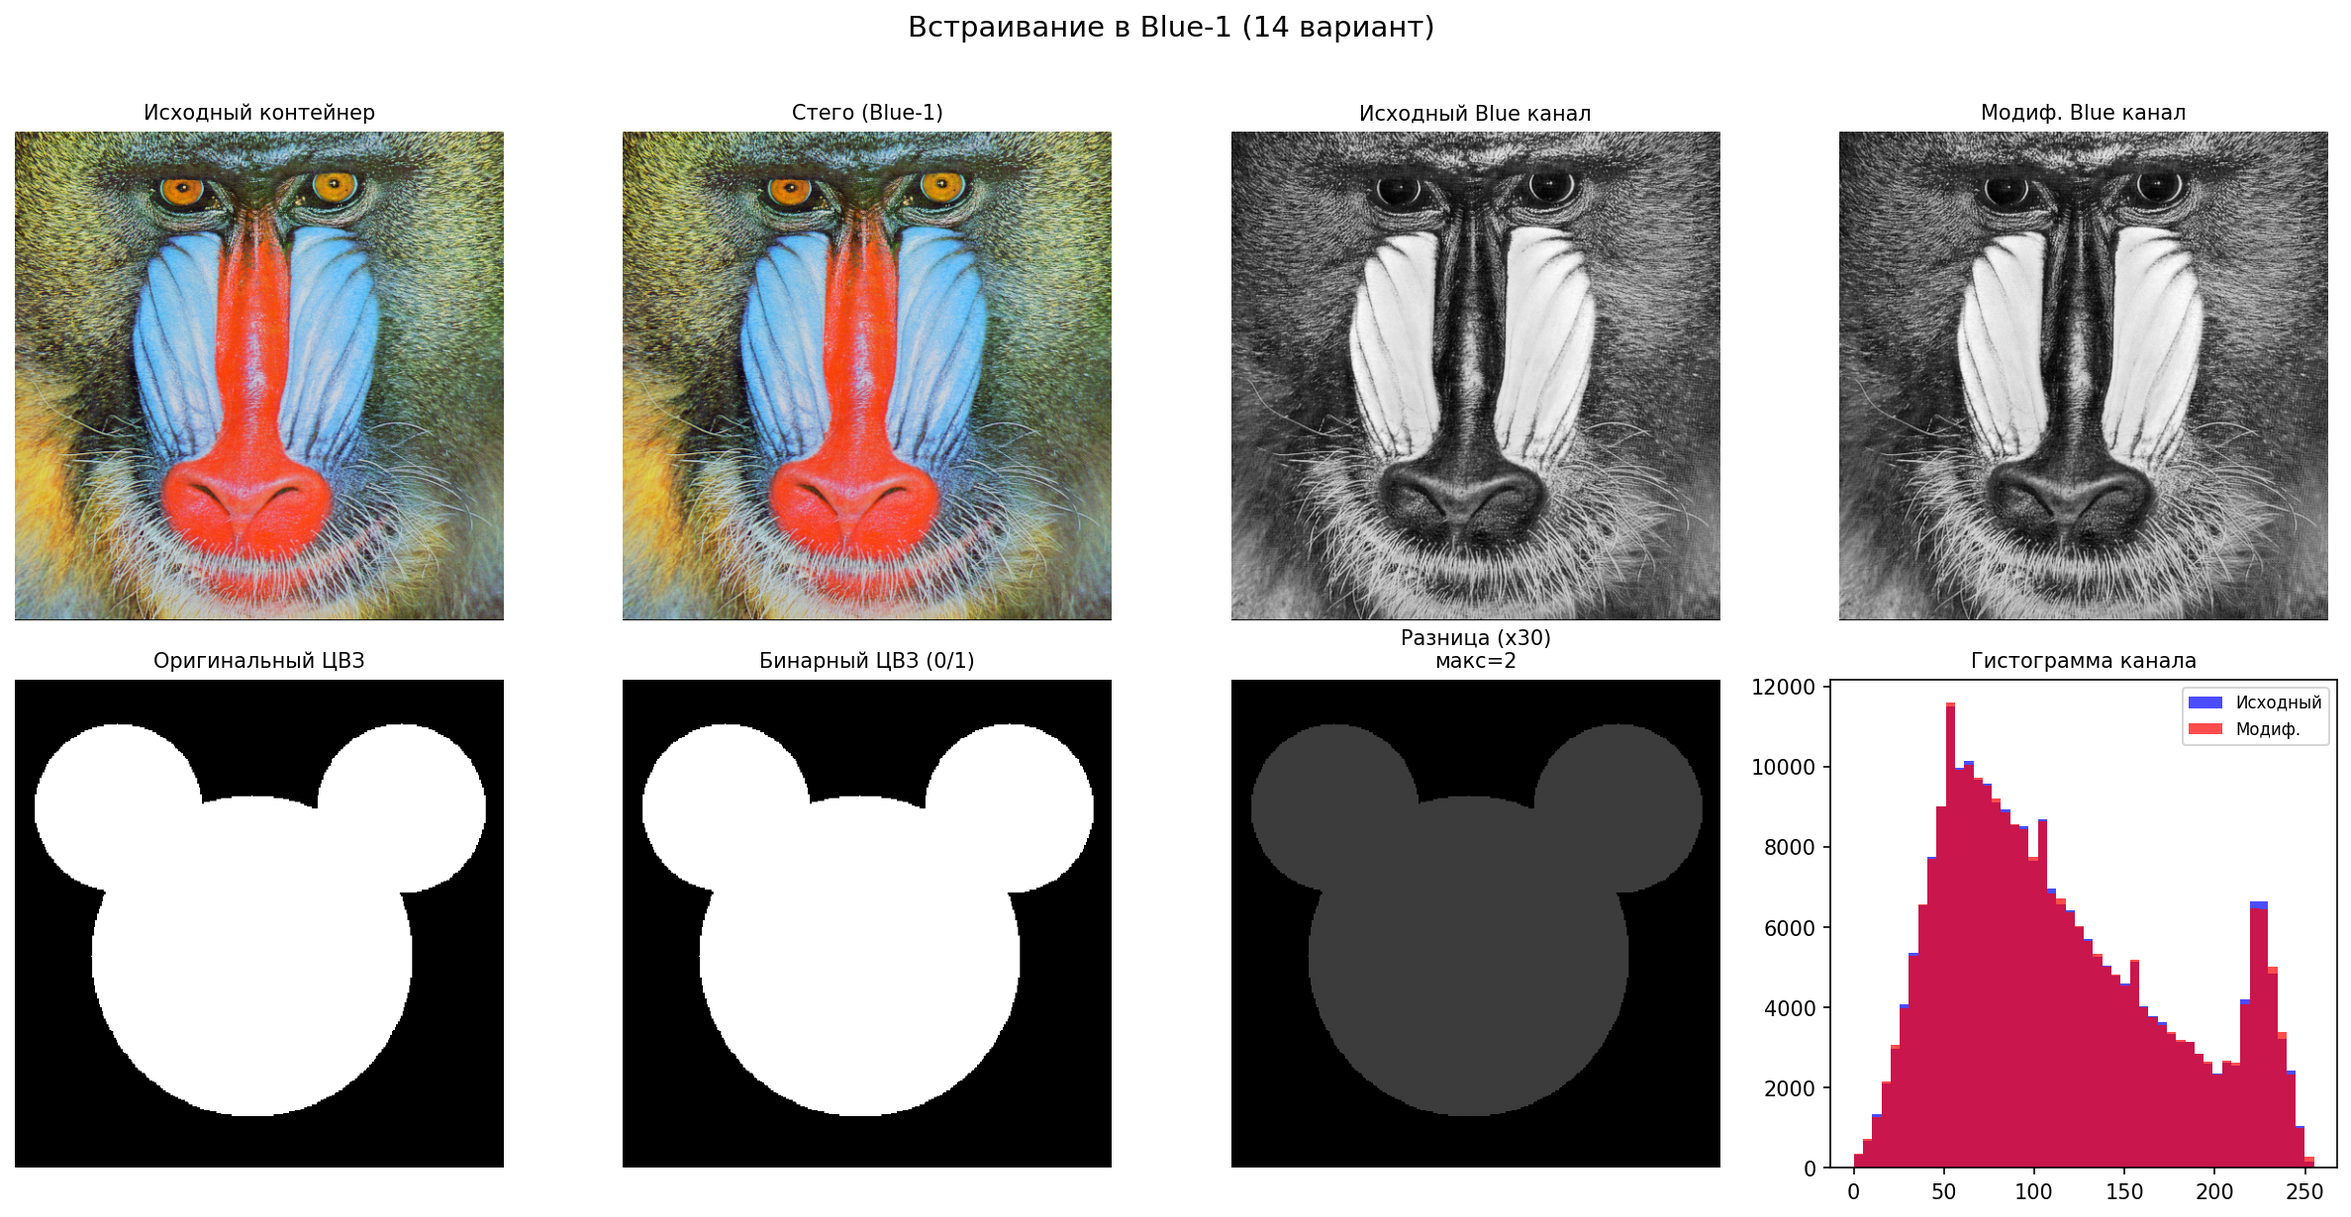
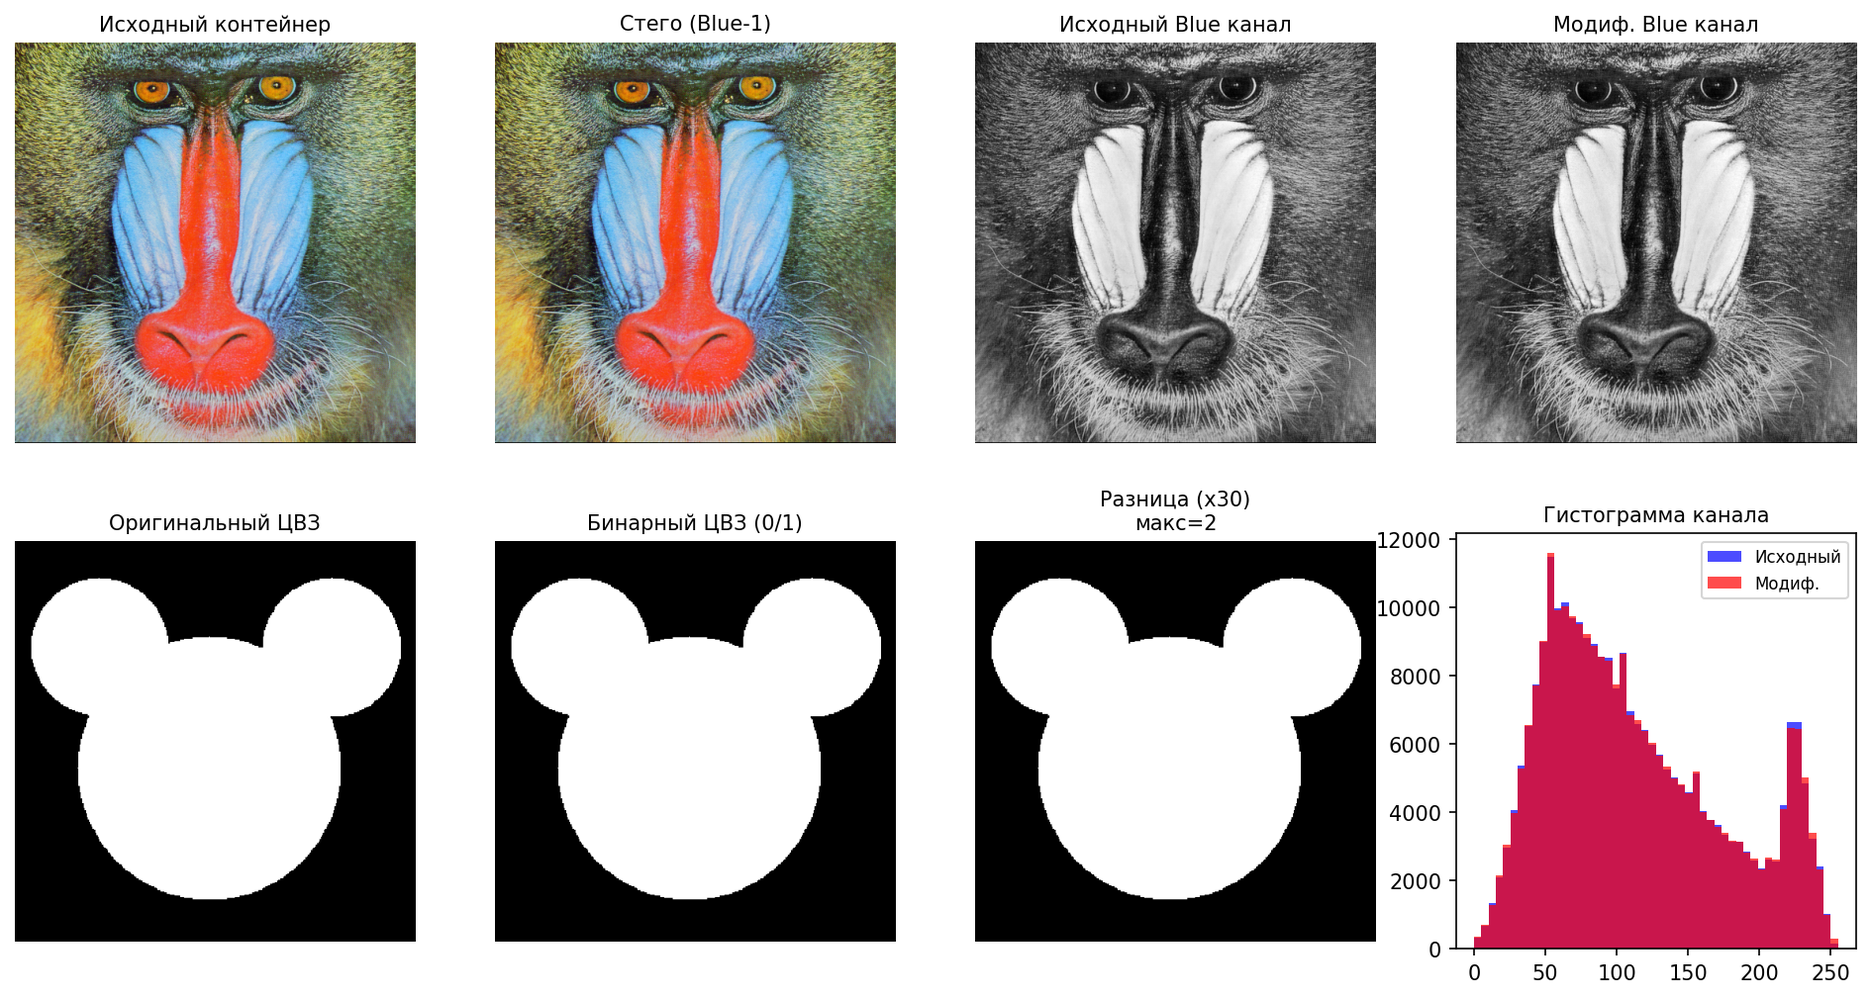
таска 1 готовая к бою

diff --git a/task1.py b/task1.py
@@ -1,337 +1,146 @@
-# Реализовать встраивание ЦВЗ в указанную в варианте задания битовую плоскость
-# определённого цветового канала пустого контейнера.
+# Реализовать встраивание ЦВЗ в указанную в варианте задания битовую плоскость определённого цветового канала пустого контейнера.
 # Визуализировать результат встраивания: как итоговое изображение, так и отдельно изменённый цветовой канал.
 
-"""
-task1.py - Лабораторная работа 1, задание 1
-14 вариант: встраивание в Green-2 и Blue-1
-"""
 
 import cv2
 import numpy as np
 import matplotlib.pyplot as plt
 import os
 
-# Константы для 14 варианта
-GREEN_CHANNEL = 1  # Индекс зеленого канала в BGR (0-Blue, 1-Green, 2-Red)
-BLUE_CHANNEL = 0  # Индекс синего канала
-GREEN_PLANE = 2  # 2-й бит для зеленого
-BLUE_PLANE = 1  # 1-й бит для синего
 
-# Пути к файлам
+
 CONTAINER_PATH = 'baboon.tif'
-WATERMARK1_PATH = 'ornament.tif'  # Для зеленого канала
-WATERMARK2_PATH = 'mickey.tif'  # Для синего канала
+WATERMARK1_PATH = 'ornament.tif'
+WATERMARK2_PATH = 'mickey.tif'
 OUTPUT_PATH = 'output/'
 
 
-def create_output_dir():
-    """Создает папку для результатов, если её нет"""
-    if not os.path.exists(OUTPUT_PATH):
-        os.makedirs(OUTPUT_PATH)
-        print(f"✅ Создана папка {OUTPUT_PATH}")
+
 
 
 def load_image(path, grayscale=False):
-    """
-    Загружает изображение
-    grayscale=True - загружает как черно-белое
-    grayscale=False - загружает как цветное (BGR)
-    """
-    if grayscale:
-        img = cv2.imread(path, cv2.IMREAD_GRAYSCALE)
-    else:
-        img = cv2.imread(path, cv2.IMREAD_COLOR)
-
-    if img is None:
-        raise FileNotFoundError(f"❌ Файл не найден: {path}")
-
-    print(f"✅ Загружен {path}: размер {img.shape}, тип {img.dtype}")
+    if grayscale: img = cv2.imread(path, cv2.IMREAD_GRAYSCALE)
+    else: img = cv2.imread(path, cv2.IMREAD_COLOR)
+    if img is None: raise FileNotFoundError(f"not File: {path}")
+    print(f"loaded {path}: size {img.shape}, type {img.dtype}")
     return img
 
 
 def prepare_watermark(watermark_path, target_shape):
-    """
-    Подготавливает ЦВЗ для встраивания:
-    1. Изменяет размер под размер контейнера
-    2. Превращает в бинарное изображение (0 и 1)
-
-    Возвращает:
-    - watermark_bin: бинарное изображение для встраивания (0 и 1)
-    - watermark_original: оригинальное изображение для визуализации
-    """
-    # Загружаем ЦВЗ как черно-белое
     wm = load_image(watermark_path, grayscale=True)
     watermark_original = wm.copy()
 
-    # Изменяем размер под контейнер
-    h, w = target_shape[:2]
+    h, w = target_shape[:2]# Изменяем размер под контейнер
     wm_resized = cv2.resize(wm, (w, h), interpolation=cv2.INTER_NEAREST)
 
-    # Бинаризуем: всё что больше 128 -> 1, иначе -> 0
-    _, wm_bin = cv2.threshold(wm_resized, 128, 1, cv2.THRESH_BINARY)
+    _, wm_bin = cv2.threshold(wm_resized, 128, 1, cv2.THRESH_BINARY) # делаем строго бинарным
     wm_bin = wm_bin.astype(np.uint8)
 
-    print(f"✅ ЦВЗ подготовлен: размер {wm_bin.shape}, значения 0 и {np.unique(wm_bin)}")
+    print(f"Watermark успешно подготовлен, размер {wm_bin.shape}")
     return wm_bin, watermark_original
 
 
 def embed_into_bit_plane(container, watermark_bin, channel_idx, plane):
-    """
-    Встраивает бинарный ЦВЗ в указанную битовую плоскость указанного канала
-
-    Параметры:
-    - container: исходное изображение (BGR)
-    - watermark_bin: бинарное изображение (0 и 1) того же размера, что и container
-    - channel_idx: индекс канала (0-Blue, 1-Green, 2-Red)
-    - plane: номер битовой плоскости (0-7, где 0 - LSB)
-
-    Возвращает:
-    - stego: изображение с встроенным ЦВЗ
-    - modified_channel: измененный канал
-    - original_channel: исходный канал
-    - difference: разница между исходным и измененным каналом
-    """
-    # Создаем копию контейнера
     stego = container.copy()
 
-    # Получаем целевой канал
     original_channel = container[:, :, channel_idx].copy()
     channel = stego[:, :, channel_idx].copy()
 
-    # Создаем маску для обнуления целевого бита
-    # Пример: для plane=2 (3-й бит): 11111011 (в двоичной)
-    # mask = ~(1 << plane) & 0xFF  # & 0xFF для 8-битного числа
-    # Обнуляем целевой бит
-    # channel_cleared = channel & mask
-    
     # Сдвигаем биты ЦВЗ на нужную позицию
     watermark_shifted = watermark_bin << plane
-    # Побитовое сложение (XOR)
+
+    # C_p^W = C_p XOR W  - ТОЧНО ПО МЕТОДИЧКЕ!
     channel_modified = channel ^ watermark_shifted
 
-    # Комбинируем: очищенный канал + биты ЦВЗ
-    # channel_modified = channel_cleared | watermark_shifted
-
-    # Возвращаем измененный канал в изображение
     stego[:, :, channel_idx] = channel_modified
-
-    # Вычисляем разницу
     difference = cv2.absdiff(original_channel, channel_modified)
 
     return stego, channel_modified, original_channel, difference
 
 
-def visualize_embedding(container, stego, channel_name, plane,
-                        original_ch, modified_ch, watermark_bin,
+def visualize_embedding(container, stego, channel_name, plane,original_ch, modified_ch, watermark_bin,
                         watermark_original, difference, filename):
-    """
-    Визуализирует результаты встраивания
-    """
-    # Создаем фигуру с подграфиками
-    fig = plt.figure(figsize=(16, 8))
 
-    # 1. Исходный контейнер
+
+    fig = plt.figure(figsize=(16, 8))
     plt.subplot(2, 4, 1)
     plt.imshow(cv2.cvtColor(container, cv2.COLOR_BGR2RGB))
     plt.title('Исходный контейнер', fontsize=10)
     plt.axis('off')
-
-    # 2. Стего-изображение
     plt.subplot(2, 4, 2)
     plt.imshow(cv2.cvtColor(stego, cv2.COLOR_BGR2RGB))
     plt.title(f'Стего ({channel_name}-{plane})', fontsize=10)
     plt.axis('off')
-
-    # 3. Исходный канал
     plt.subplot(2, 4, 3)
     plt.imshow(original_ch, cmap='gray')
     plt.title(f'Исходный {channel_name} канал', fontsize=10)
     plt.axis('off')
-
-    # 4. Модифицированный канал
     plt.subplot(2, 4, 4)
     plt.imshow(modified_ch, cmap='gray')
     plt.title(f'Модиф. {channel_name} канал', fontsize=10)
     plt.axis('off')
-
-    # 5. Оригинальный ЦВЗ
     plt.subplot(2, 4, 5)
     plt.imshow(watermark_original, cmap='gray')
     plt.title('Оригинальный ЦВЗ', fontsize=10)
     plt.axis('off')
-
-    # 6. Бинарный ЦВЗ
     plt.subplot(2, 4, 6)
     plt.imshow(watermark_bin * 255, cmap='gray')
     plt.title('Бинарный ЦВЗ (0/1)', fontsize=10)
     plt.axis('off')
-
-    # 7. Разница (увеличена для наглядности)
-    # Разница обязана повторять бинарный watermark
     plt.subplot(2, 4, 7)
-    #  imshow по умолчанию всегда растягивает масштаб, 
-    # поэтому чтобы увидеть  чб изображение можно :
-    # plt.imshow(difference, cmap='gray')
-    plt.imshow(difference * 30, cmap='gray', vmin=0, vmax=255)
+    plt.imshow(difference * 30, cmap='gray')
     plt.title(f'Разница (x30)\nмакс={difference.max()}', fontsize=10)
     plt.axis('off')
-
-    # 8. Гистограмма изменений
     plt.subplot(2, 4, 8)
     plt.hist(original_ch.ravel(), bins=50, alpha=0.7, label='Исходный', color='blue')
     plt.hist(modified_ch.ravel(), bins=50, alpha=0.7, label='Модиф.', color='red')
     plt.title('Гистограмма канала', fontsize=10)
     plt.legend(fontsize=8)
 
-    plt.suptitle(f'Встраивание в {channel_name}-{plane} (14 вариант)', fontsize=14, y=1.02)
-    plt.tight_layout()
 
-    # Сохраняем
     save_path = os.path.join(OUTPUT_PATH, filename)
     plt.savefig(save_path, dpi=150, bbox_inches='tight')
     plt.show()
-    print(f"✅ Визуализация сохранена: {save_path}")
 
-
-# def verify_extraction(stego_image, channel_idx, plane, original_watermark_bin, channel_name):
-    # """
-    # Проверяет корректность извлечения
-    # """
-    # # Извлекаем биты
-    # original_channel = original_container[:, :, channel_idx]
-    # stego_channel = stego_image[:, :, channel_idx]
-
-    # xor_result = stego_channel ^ original_channel
-    # extracted = (xor_result >> plane) & 1
-
-    # # Сравниваем
-    # if np.array_equal(extracted_bits, original_watermark_bin):
-    #     print(f"✅ {channel_name}: извлечение успешно - все биты совпадают")
-    #     return True
-    # else:
-    #     mismatch = np.sum(extracted_bits != original_watermark_bin)
-    #     percent = (mismatch / original_watermark_bin.size) * 100
-    #     print(f"❌ {channel_name}: ошибка - {mismatch} несовпадений ({percent:.2f}%)")
-    #     return False
 
 
 def main():
-    """Основная функция"""
-    print("=" * 60)
-    print("ЗАДАНИЕ 1: Встраивание в битовые плоскости")
-    print("14 вариант: Green-2 и Blue-1")
-    print("=" * 60)
-
-    # Создаем папку для результатов
-    create_output_dir()
-
     try:
-        # 1. Загружаем контейнер
-        print("\n📥 Загрузка файлов...")
         container = load_image(CONTAINER_PATH)
 
-        # 2. Загружаем и подготавливаем ЦВЗ
         wm_green_bin, wm_green_orig = prepare_watermark(WATERMARK1_PATH, container.shape)
         wm_blue_bin, wm_blue_orig = prepare_watermark(WATERMARK2_PATH, container.shape)
 
-        # 3. Встраиваем в зеленый канал (Green-2)
-        print("\n🟢 Встраивание в Green-2...")
+        print(" Встраивание в Green-2...")
         stego_after_green, green_modified, green_original, green_diff = embed_into_bit_plane(
-            container, wm_green_bin, GREEN_CHANNEL, GREEN_PLANE
+            container, wm_green_bin, 1,2  # Индекс зеленого канала в BGR (0-Blue, 1-Green, 2-Red)
         )
 
         print("\nПРОВЕРКА Green-2")
         print("Количество изменённых пикселей:", np.sum(green_diff != 0))
-
-        # Визуализируем результат для зеленого
         visualize_embedding(
             container, stego_after_green,
-            'Green', GREEN_PLANE,
+            'Green', 2,
             green_original, green_modified,
             wm_green_bin, wm_green_orig, green_diff,
             'embedding_green2.png'
         )
-
-        # 4. Встраиваем в синий канал (Blue-1)
-        print("\n🔵 Встраивание в Blue-1...")
+        print(" Встраивание в Blue-1...")
         stego_final, blue_modified, blue_original, blue_diff = embed_into_bit_plane(
-            stego_after_green, wm_blue_bin, BLUE_CHANNEL, BLUE_PLANE
+            stego_after_green, wm_blue_bin, 0, 1
         )
-
-        # Визуализируем результат для синего
+        print("Количество изменённых пикселей:", np.sum(blue_diff != 0))
         visualize_embedding(
             stego_after_green, stego_final,
-            'Blue', BLUE_PLANE,
+            'Blue', 1,
             blue_original, blue_modified,
             wm_blue_bin, wm_blue_orig, blue_diff,
             'embedding_blue1.png'
         )
 
-        # 5. Сохраняем финальное изображение
         final_path = os.path.join(OUTPUT_PATH, 'stego_task1_14var.png')
         cv2.imwrite(final_path, stego_final)
-        print(f"\n💾 Финальное стего-изображение сохранено: {final_path}")
-
-        # 6. Проверяем извлечение
-        # print("\n🔍 Проверка извлечения...")
-        # verify_extraction(stego_final, GREEN_CHANNEL, GREEN_PLANE, wm_green_bin, "Green-2")
-        # verify_extraction(stego_final, BLUE_CHANNEL, BLUE_PLANE, wm_blue_bin, "Blue-1")
-
-        # 7. Финальная визуализация
-        print("\n📊 Создание финальной визуализации...")
-        plt.figure(figsize=(15, 8))
-
-        # Исходный контейнер
-        plt.subplot(2, 3, 1)
-        plt.imshow(cv2.cvtColor(container, cv2.COLOR_BGR2RGB))
-        plt.title('Исходный контейнер')
-        plt.axis('off')
-
-        # Финальное стего
-        plt.subplot(2, 3, 2)
-        plt.imshow(cv2.cvtColor(stego_final, cv2.COLOR_BGR2RGB))
-        plt.title('Финальное стего\n(Green-2 + Blue-1)')
-        plt.axis('off')
-
-        # Общая разница
-        total_diff = cv2.absdiff(container, stego_final)
-        total_diff_gray = cv2.cvtColor(total_diff, cv2.COLOR_BGR2GRAY)
-        plt.subplot(2, 3, 3)
-        plt.imshow(total_diff_gray * 30, cmap='gray')
-        plt.title('Общая разница (x30)')
-        plt.axis('off')
-
-        # Модифицированный зеленый
-        plt.subplot(2, 3, 4)
-        plt.imshow(stego_final[:, :, GREEN_CHANNEL], cmap='gray')
-        plt.title('Модиф. Green канал')
-        plt.axis('off')
-
-        # Модифицированный синий
-        plt.subplot(2, 3, 5)
-        plt.imshow(stego_final[:, :, BLUE_CHANNEL], cmap='gray')
-        plt.title('Модиф. Blue канал')
-        plt.axis('off')
-
-        # Информация о варианте
-        plt.subplot(2, 3, 6)
-        plt.text(0.1, 0.8, '14 вариант', fontsize=14, fontweight='bold')
-        plt.text(0.1, 0.6, 'Green-2: ornament.tif', fontsize=12)
-        plt.text(0.1, 0.4, 'Blue-1: mickey.tif', fontsize=12)
-        plt.text(0.1, 0.2, f'Размер: {container.shape[1]}x{container.shape[0]}', fontsize=10)
-        plt.axis('off')
-
-        plt.suptitle('Задание 1 - Результат для 14 варианта', fontsize=16)
-        plt.tight_layout()
-
-        final_viz_path = os.path.join(OUTPUT_PATH, 'final_visualization.png')
-        plt.savefig(final_viz_path, dpi=150, bbox_inches='tight')
-        plt.show()
-
-        print(f"\n✅ Финальная визуализация сохранена: {final_viz_path}")
-        print("\n🎉 Задание 1 успешно выполнено!")
-        print(f"Все результаты сохранены в папке: {OUTPUT_PATH}")
+        print(f"стего-изображение сохранено: {final_path}")
 
     except Exception as e:
         print(f"\n❌ Ошибка: {e}")
